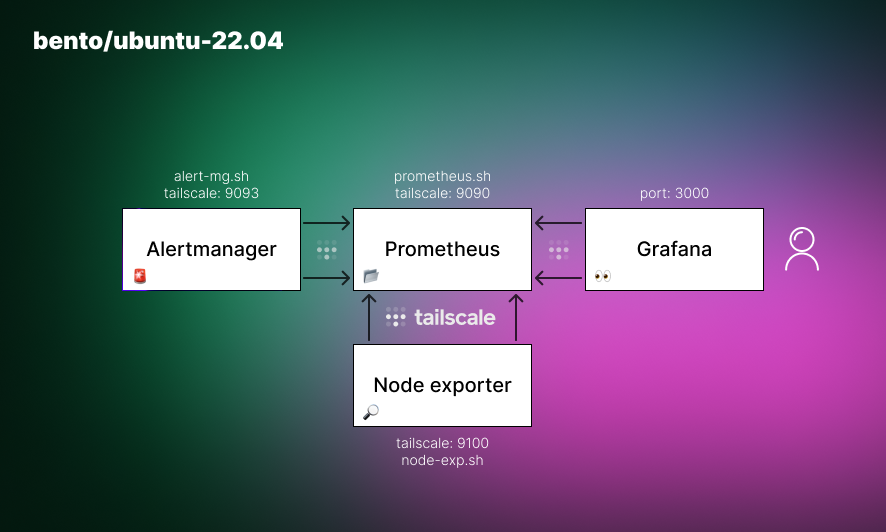
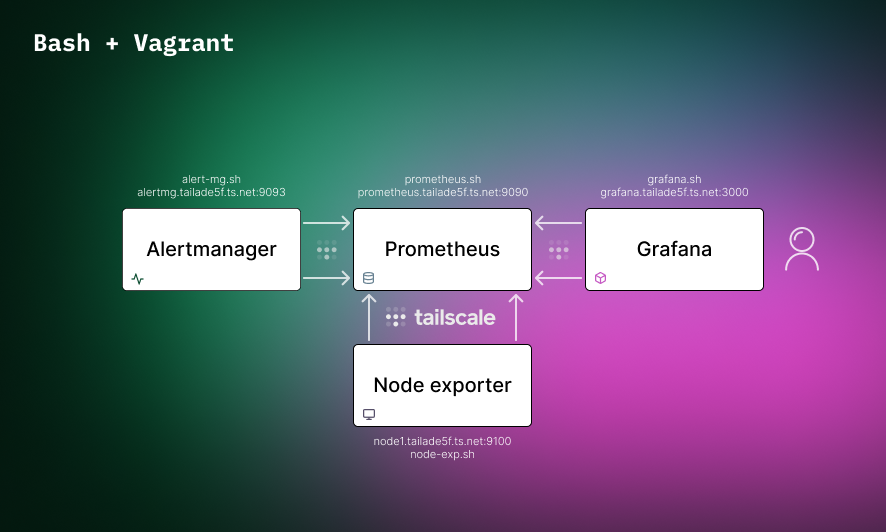
Upload

diff --git a/README.md b/README.md
@@ -11,12 +11,11 @@
 | ❤ | Автоматизація Jenkins |
 | ❤ | Vagrant / Terraform |
 
-### Bash Vagrant
 
 <picture>
     <source media="(prefers-color-scheme: dark)" srcset="./images/1b.png">
     <img alt="IMG1" src="./images/1w.png">
 </picture>
 
-Будьласка змініть шлях до конфігураційного файлу alermanager.yaml в alert-mg.sh
-Будьласка додайте ключ в tailscale.sh
+> [!TIP]
+> Edit the Bash scripts according to your preferences.
